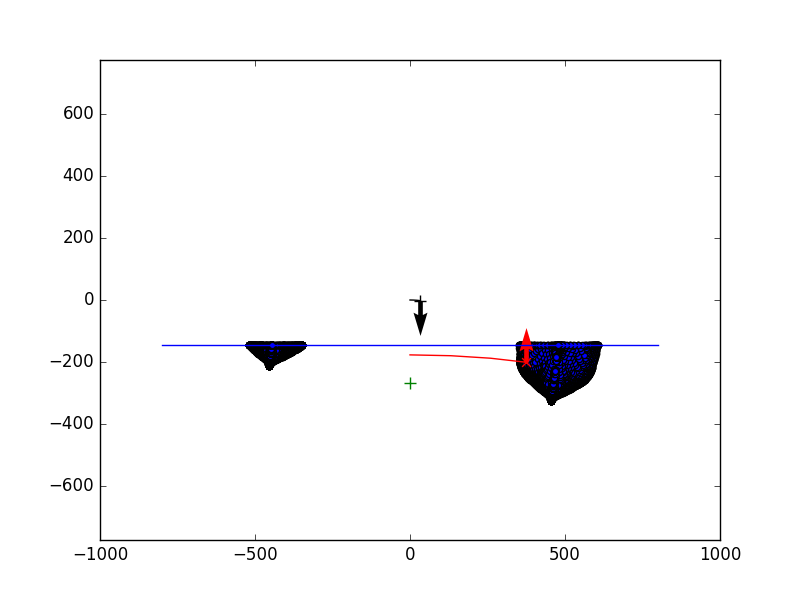
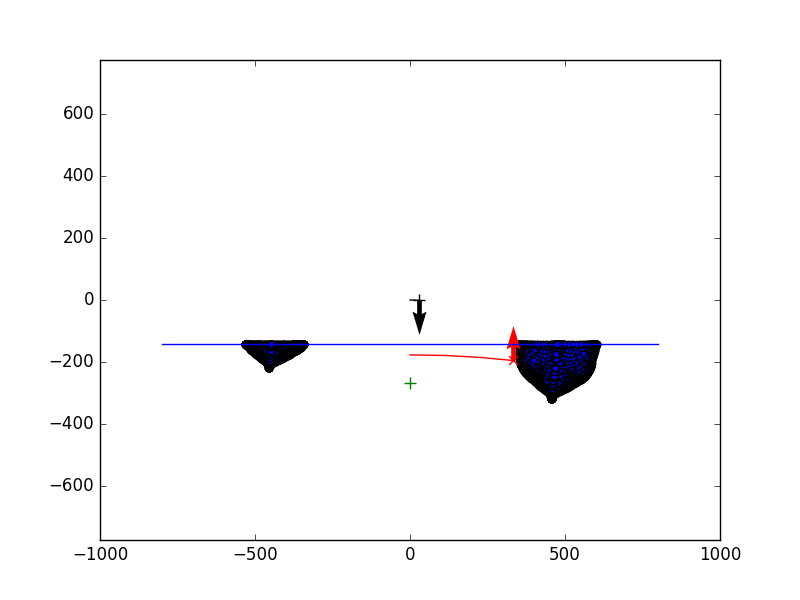
update stability script

Changed region(s): [[0.1875, 0.54, 0.8125, 0.66], [0.5, 0.48, 0.5312, 0.54]]

diff --git a/stability/RunStabilityModel.py b/stability/RunStabilityModel.py
@@ -21,8 +21,8 @@ center_of_gravity = [0.0, 0.0, 0.0] # np.average(mesh_in.vertices[:, 2])
 rotation_axis = [1.0, 0.0, 0.0]
 
 boat_mass = 46.0  # kg
-max_angle = 90.0  # deg
-num_steps = 5  # deg
+max_angle = 80.0  # deg
+num_steps = 40  # deg
 thetas = np.linspace(0.0, max_angle, num_steps)
 np.save('thetas.npy', thetas)
 
@@ -89,7 +89,7 @@ for theta in thetas:
     gravity_moment_arr.append(gravity_moment)
 
     # plot the boat in 2D
-    stability_model.plot_2d(submerged, waterline=-waterline_level)
+    stability_model.plot_2d(mesh_rot, waterline=-waterline_level)
 
     plt.scatter(CB[1], CB[2], marker='x', c='r', s=40)
     plt.scatter(rotation_point[1], rotation_point[2], marker='+', c='g', s=80)
